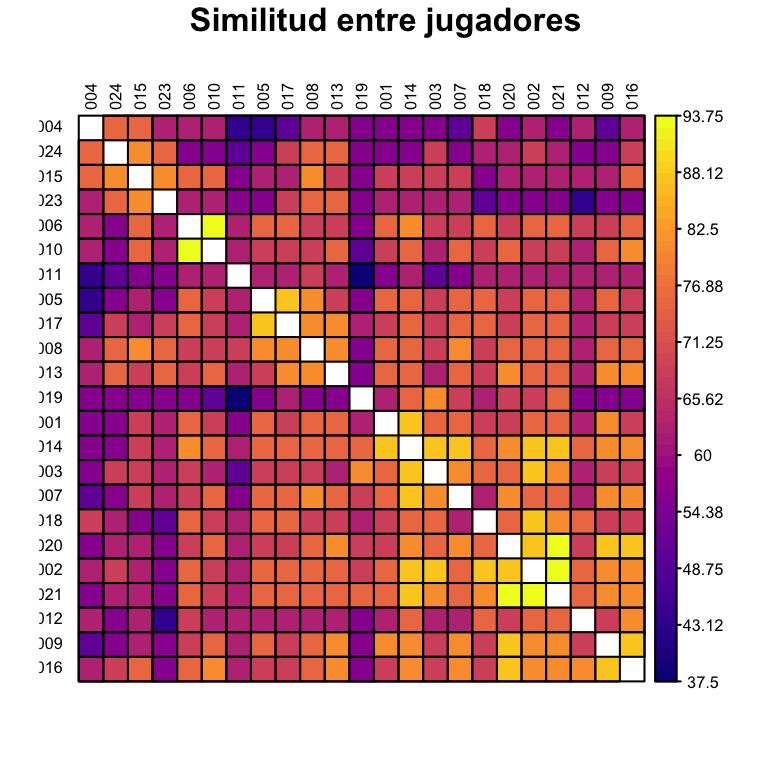
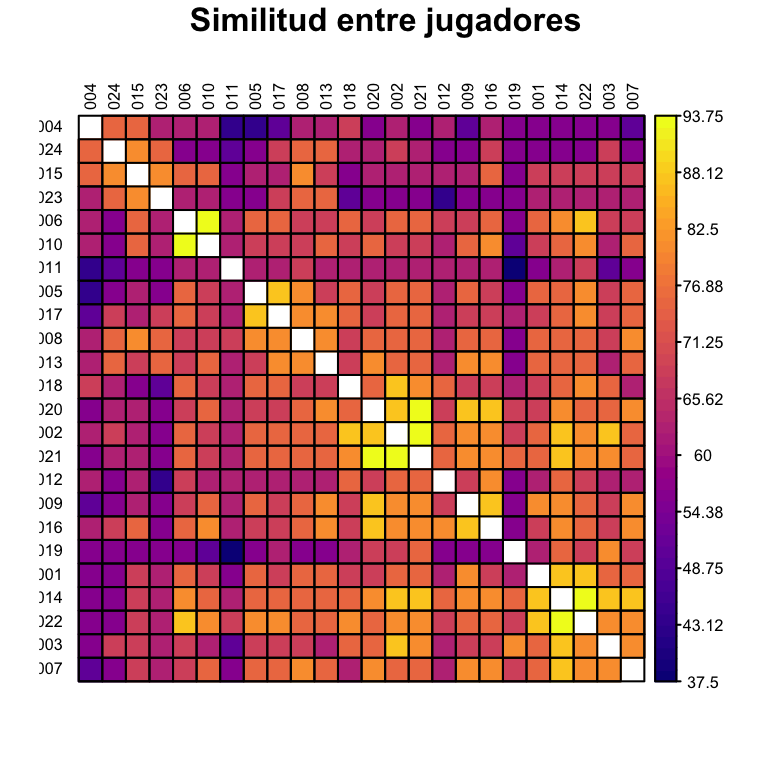
automatic README update

diff --git a/README.md b/README.md
@@ -13,7 +13,7 @@ Este es el repositorio de la quiniela Qatar 2022. Aqui se publicarán las picks 
 
 
 
-Última actualización: Tue 29 Nov 2022 09:24:32 EST.
+Última actualización: Tue 29 Nov 2022 10:14:56 EST.
 
 
 # **Puntuaciones**
@@ -22,32 +22,6 @@ Este es el repositorio de la quiniela Qatar 2022. Aqui se publicarán las picks 
 ### **Tabla General**
 
 
-| numero_participante | Nombre                        | GS1 | GS2 | GS3 | Total |
-| ------------------- | ----------------------------- | --- | --- | --- | ----- |
-| 002                 | Poncho                        | 9   | 9   | 1   | 19    |
-| 001                 | Jonathan                      | 10  | 7   | 1   | 18    |
-| 003                 | Habib                         | 11  | 6   | 1   | 18    |
-| 014                 | Valentin                      | 9   | 8   | 1   | 18    |
-| 020                 | Luis Angel Llamas Alonso      | 10  | 7   | 1   | 18    |
-| 012                 | Ibrahim T                     | 10  | 6   | 0   | 16    |
-| 013                 | Rubén Aguilar Grande         | 9   | 6   | 1   | 16    |
-| 016                 | Ernie                         | 8   | 7   | 1   | 16    |
-| 019                 | Diego Angeles                 | 8   | 8   | 0   | 16    |
-| 004                 | Jalil Rasgado Toledo          | 9   | 5   | 1   | 15    |
-| 007                 | Claudio                       | 9   | 6   | 0   | 15    |
-| 015                 | Daniel Jimenez                | 8   | 6   | 1   | 15    |
-| 024                 | Ahmed Felfel                  | 8   | 7   | 0   | 15    |
-| 006                 | Juan Carlos Avendaño Aguilar | 9   | 5   | 0   | 14    |
-| 009                 | Luis Temo Marquez             | 9   | 5   | 0   | 14    |
-| 010                 | Fosi                          | 8   | 5   | 1   | 14    |
-| 023                 | adamziri                      | 8   | 5   | 1   | 14    |
-| 011                 | Jacob                         | 6   | 6   | 1   | 13    |
-| 017                 | Bobacao                       | 10  | 3   | 0   | 13    |
-| 018                 | Eduardo Rafael Palacios Rejón | 8   | 5   | 0   | 13    |
-| 005                 | Israel torres                 | 7   | 5   | 0   | 12    |
-| 008                 | Héctor Zepeda                | 7   | 4   | 1   | 12    |
-| 021                 | German Jair Sanchez Soto      | 7   | 5   | 0   | 12    |
-| 022                 | Colin                         | 6   | 4   | 1   | 11    |
  
 
 [Resultados de la Jornada 1](GS1_complete_scores.csv)
@@ -92,6 +66,7 @@ Este es el repositorio de la quiniela Qatar 2022. Aqui se publicarán las picks 
 | 019                 | Diego Angeles-Valdez          | Ecuador            | Netherlands          | Draw        | England          | France            | Australia            | Argentina           | Saudi Arabia           | Draw               | Morocco           | Spain          | Germany               | Portugal          | Draw             | Draw                  | Brazil             |
 | 020                 | Luis Llamas                   | Draw               | Netherlands          | Draw        | England          | France            | Denmark              | Argentina           | Mexico                 | Croatia            | Morocco           | Spain          | Germany               | Portugal          | Uruguay          | Draw                  | Brazil             |
 | 021                 | German Jair                   | Ecuador            | Netherlands          | Draw        | England          | France            | Denmark              | Argentina           | Mexico                 | Croatia            | Morocco           | Spain          | Germany               | Portugal          | Uruguay          | Draw                  | Brazil             |
+| 022                 | 438-880-4016                  | Ecuador            | Netherlands          | USA         | England          | France            | Denmark              | Argentina           | Mexico                 | Draw               | Morocco           | Spain          | Germany               | Portugal          | Uruguay          | Switzerland           | Brazil             |
 | 023                 | Adam                          | Senegal            | Netherlands          | USA         | Wales            | France            | Denmark              | Argentina           | Draw                   | Belgium            | Morocco           | Spain          | Germany               | Portugal          | Draw             | Serbia                | Brazil             |
 | 024                 | Ahmed Felfel                  | Senegal            | Netherlands          | Iran        | England          | France            | Denmark              | Argentina           | Draw                   | Croatia            | Draw              | Spain          | Germany               | Portugal          | Draw             | Serbia                | Brazil             |
 ### Gráficos
@@ -109,8 +84,8 @@ Este es el top 5 de jugadores que más cambiarán su posición en la tabla tras 
 
 | numero_participante | Nombre               |
 | ------------------- | -------------------- |
-| 011                 | Jacob                |
 | 004                 | Jalil                |
+| 011                 | Jacob                |
 | 019                 | Diego Angeles-Valdez |
 | 023                 | Adam                 |
 | 024                 | Ahmed Felfel         |
